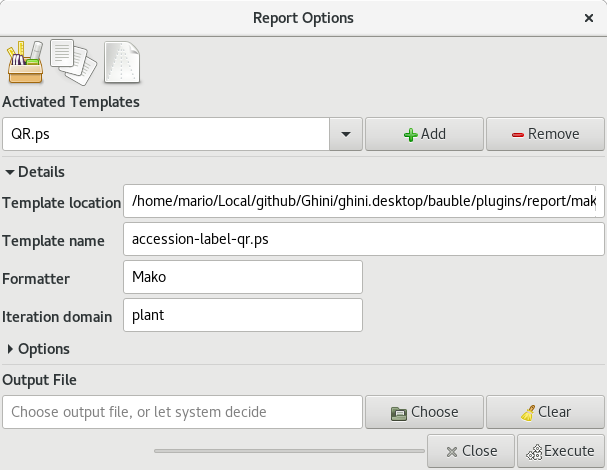
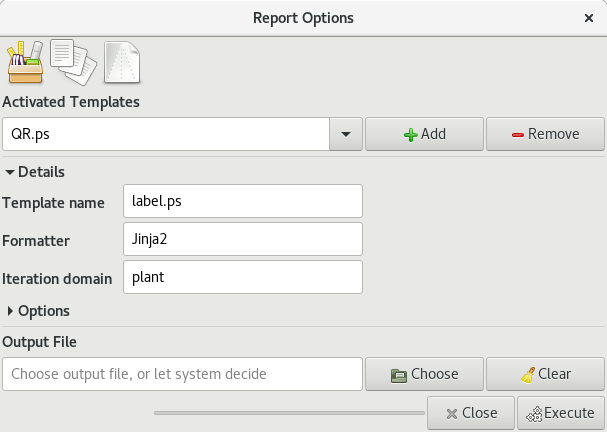
documenting intentions - #431

Changed region(s): [[0.0, 0.0301, 1.0, 0.9931]]

diff --git a/doc/report.rst b/doc/report.rst
@@ -42,13 +42,25 @@ box (fields may be filled in differently):
 
 .. image:: images/report-from-template-dialog.png
 
-Ghini lets you **activate** available reports, and give them the name that makes most sense to you.  Click
-on ``Add``, choose a formatter template, and type the name by which you want to activate it.  Activated
-templates are static, once configured you are not expected to alter them.
+You have already selected your objects in the main window, you now here select the report template you need,
+and press on Execute to produce your report.  Ghini will open the report in the corresponding application.
 
-Choosing a formatter template implies a template language.  ghini.desktop supports two template languages:
-Mako and XSL.  There is only one formatting engine handling the Mako template language, while during
-installation you indicated which of the several XSL formatting engines you wanted to have, if any.
+Ghini comes with a few sample package-templates, and it lets you **activate** your own user-templates.
+
+To activate your own template, click on ``Add``, choose the file that contains your template, and type the
+name by which you want to activate it.  Activated templates are static, once configured you are not expected
+to alter them.  Deactivating a template amounts to deleting it from your installation.  You cannot delete a
+package-template, but you can overrule one with your own.
+
+Package-templates are integral part of the installation.  User-templates are in your custom data, together
+with your ghini configuration, your sqlite databases and your plant pictures, if you let ghini keep them in
+the default location.  Package-templates will be overwritten if you update your installation, User-templates
+are persistent as long as you stay in the same production line (say, ghini-3.1).
+
+Choosing a formatter template implies a template language.  ghini.desktop supports three template languages:
+Jinja2, Mako and XSL.  There is only one formatting engine handling the Jinja2 template language, and the
+same goes for Mako.  During installation you indicated which of the several XSL formatting engines you
+wanted to have, if any.
 
 Expand the ``Details`` section to see some information about the selected formatter template.
 
@@ -56,7 +68,7 @@ Expand the ``Details`` section to see some information about the selected format
 
 The formatter engine combines selection and formatter template to produce a report.  Each formatter template
 indicates the iteration domain, that is what kind of collection objects you focus on, in your report.  In
-the above example, we are using Mako to report about individual plants, producing —per plant— a postscript
+the above example, we are using Jinja2 to report about individual plants, producing —per plant— a postscript
 label with a QR code.
 
 Expand the ``Options`` section to see what extra parameters your selected template may require or expect.
@@ -69,14 +81,22 @@ labels in your preferred format, and in a given range.
 In general: choose the report you need, specify parameters if required, and produce the report.  Ghini will
 open the report in the associated application.
 
-This is as far as generic information can go.  Formatter templates can be very specific, and deeply vary
-from each other, most of them are small pieces of software themselves.  Please check their instructions from
-your source.
+This is as far as generic information can go.  Formatter templates can be very specific, and vary broadly
+from each other, most of them are small pieces of software themselves.
 
 Template-less Reports (Quick CSV)
 ^^^^^^^^^^^^^^^^^^^^^^^^^^^^^^^^^^^
 
-Does such a simple tool need any documentation?  Use it, if you don't understand then please ask.
+Activate the :menuselection:`Tools-->Report-->Quick CSV` and you get the following dialog box:
+
+.. image:: images/report-quick-csv-dialog.png
+
+Start from the top and work your way to the bottom: decide whether you work on the selection or the whole
+collection, choose the iteration domain, select the properties to include in the report, drag and drop them
+in the list to get them in the correct order, choose the destination file, execute.  Ghini will open the
+report in your preferred spreadsheet program.
+
+Do you really need any further documentation?  If anything isn't clear then please ask.
 
 Technical information
 ----------------------------------
@@ -86,6 +106,15 @@ gives hints on writing report templates.  Writing templates comes very close to 
 and that's beyond the scope of this manual, but we have hints that will definitely be useful to the
 interested reader.
 
+
+Working with Jinja2 Templates
+^^^^^^^^^^^^^^^^^^^^^^^^^^^^^^^^^^^^^^
+
+Jinja2 is a powerful and very well documented template language.  Please refer to their documentation for
+information regarding how to write templates.
+
+ghini.desktop creates an environment that enables you find all activated templates, without caring about
+their physical location on your computer.
 
 Working with Mako Templates
 ^^^^^^^^^^^^^^^^^^^^^^^^^^^^^^^^^^^^^^
